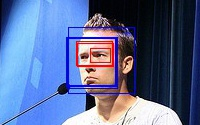
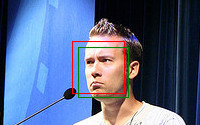
documentation

diff --git a/lib/detectors/opencv.rb b/lib/detectors/opencv.rb
@@ -7,11 +7,11 @@ class FaceCrop::Detector::OpenCV < FaceCrop::Detector::Base
     
     image = OpenCV::IplImage.load(file, 1)
 
-    faces_regions = detect_regions(image, @options[:classifiers][:face])
+    faces_regions = detect_regions(image, @options[:face])
   
     #Paperclip::FaceCrop.classifiers[:nose]
-    unless @options[:classifiers][:parts].nil?
-      faces_parts_regions = detect_regions(image, @options[:classifiers][:parts])
+    unless @options[:parts].nil?
+      faces_parts_regions = detect_regions(image, @options[:parts])
     
       faces_regions.reject! do |face_region|
         region = faces_parts_regions.detect do |part_region|

diff --git a/lib/detectors/face_com.rb b/lib/detectors/face_com.rb
@@ -4,7 +4,9 @@ class FaceCrop::Detector::FaceCom < FaceCrop::Detector::Base
   URL = "http://api.face.com/faces/detect.json"
   
   def detect_faces(file)
-    url = "#{URL}?api_key=#{@options[:api_key]}&api_secret=#{@options[:api_secret]}"
+    query = @options.to_query
+    url = "#{URL}?#{query}"
+    
     response = RestClient.post url, :file => File.new(file)
     response = JSON.parse(response)
     

diff --git a/README.md b/README.md
@@ -2,14 +2,29 @@ Paperclip::FaceCrop
 ====================
 `Paperclip::FaceCrop` is a [Paperclip][paperclip] processor that is aware of the faces found on the image 
 so that they aren't cropped or aren't shown too small while generating the thumbnails.
-It uses OpenCV for the facial recognition
+It can use the [OpenCV][opencv] library or the [Face.com][face_com] web service(or both at the same time) for the facial recognition.
 
 ![](https://github.com/dagi3d/paperclip-facecrop/raw/master/README_example.jpg)
 
 Requirements:
 -------------
+
+### OpenCV
+
+If you want to use OpenCV on your own server, you need to install:
+
 - [OpenCV][opencv]
 - [OpenCV ruby binding][ruby-opencv]
+
+In case you get the error message `/ext/opencv/cverror.cpp:143: error: ‘CV_GpuCufftCallError’ was not declared in this scope` while installing the ruby binding,
+checkout the OpenCV_2.2 branch or just remove the line 143 from `/ext/opencv/cverror.cpp`
+          
+
+### Face.com
+- [rest-client][rest-client]
+
+In order to use the Face.com service, you will also need to register in order to get your aapi key and api secret for your application.
+
 
 Installation:
 -------------
@@ -21,39 +36,55 @@ Installation:
           
           bundle install
 
-- Write an initializer setting the path of the haarcascade filters(`initializers/paperclip.rb` for example):   
 
-          Paperclip::FaceCrop.classifiers = {
-            :face => ["/usr/local/share/opencv/haarcascades/haarcascade_frontalface_alt.xml"]
+- Write an initializer setting the detectors configuration (`initializers/paperclip.rb` for example):   
+
+### OpenCV
+
+Set the path of the haarcascade filters:
+
+          Paperclip::FaceCrop.detectors = {
+            'OpenCV' =>  { 
+              :face => %w(/usr/local/share/opencv/haarcascades/haarcascade_frontalface_alt_tree.xml)
+            }
           }
+
+          
               
-    You can use more than one filter to try more accurate searches:
+You can use more than one filter to try more accurate searches:
     
-          Paperclip::FaceCrop.classifiers = {
-            :face => [
-              "/usr/local/share/opencv/haarcascades/haarcascade_frontalface_alt.xml",
-              "/usr/local/share/opencv/haarcascades/haarcascade_frontalface_alt_tree.xml",
-              "/usr/local/share/opencv/haarcascades/haarcascade_profileface.xml"
-            ]
+          Paperclip::FaceCrop.detectors = {
+            'OpenCV' =>  { 
+              :face => %w(/usr/local/share/opencv/haarcascades/haarcascade_frontalface_alt_tree.xml
+                          /usr/local/share/opencv/haarcascades/haarcascade_frontalface_alt.xml
+                          /usr/local/share/opencv/haarcascades/haarcascade_profileface.xml)
+            }
           }
 
-    In order to try to avoid some false positives, you can also specify other classifiers to detect other parts of the face. In that case, 
-    only the found areas that contain parts like a mouth, an eye or a nose will be considered a face:
+
+
+In order to try to avoid some false positives, you can also specify other classifiers to detect other parts of the face. In that case, 
+only the found areas that contain parts like a mouth, an eye or a nose will be considered a face:
     
-          Paperclip::FaceCrop.classifiers = {
-            :face => [
-              "/usr/local/share/opencv/haarcascades/haarcascade_frontalface_alt.xml",
-              "/usr/local/share/opencv/haarcascades/haarcascade_frontalface_alt_tree.xml",
-              "/usr/local/share/opencv/haarcascades/haarcascade_profileface.xml"
-            ],
-            :parts => [
-              "/usr/local/share/opencv/haarcascades/haarcascade_mcs_nose.xml",
-              "/usr/local/share/opencv/haarcascades/haarcascade_mcs_lefteye.xml",
-              "/usr/local/share/opencv/haarcascades/haarcascade_mcs_righteye.xml"
-            ]
+          Paperclip::FaceCrop.detectors = {
+            'OpenCV' =>  { 
+              :face => %w(/usr/local/share/opencv/haarcascades/haarcascade_frontalface_alt_tree.xml
+                          /usr/local/share/opencv/haarcascades/haarcascade_frontalface_alt.xml
+                          /usr/local/share/opencv/haarcascades/haarcascade_profileface.xml),
+              
+              :parts => %w(/usr/local/share/opencv/haarcascades/haarcascade_mcs_nose.xml
+                           /usr/local/share/opencv/haarcascades/haarcascade_mcs_lefteye.xml
+                           /usr/local/share/opencv/haarcascades/haarcascade_mcs_righteye.xml)
+            }
           }
+          
     
-    
+### Face.com
+
+          Paperclip::FaceCrop.detectors = {
+            'FaceCom' => { :api_key => "<YOUR API KEY>", :api_secret => "<YOUR API SECRET>"}
+          }    
+
 
 Usage:
 ------
@@ -71,15 +102,19 @@ In case no faces were found, it will behave simply as the `Paperclip::Thumbnail`
 
 You can also set the debug mode to draw on the image the detected regions:
     
-    Paperclip::FaceCrop.debug = (Rails.env == 'development')
+    Paperclip::FaceCrop.debug = Rails.env.development?
     
 ![](https://github.com/dagi3d/paperclip-facecrop/raw/master/README_example_b.jpg)
+
+Each detector will draw the found regions in different colors(Face.com detector in red and OpenCV in green)
 
 Credits:
 --------
 Copyright (c) 2011 Borja Martín Sánchez de Vivar <borjamREMOVETHIS@dagi3d.net> - <http://dagi3d.net>, released under the MIT license  
 The photo used as example belongs to [Jesper Rønn-Jensen](http://www.flickr.com/photos/jesper/)
 
+[face_com]: http://face.com
+[rest-client]: https://rubygems.org/gems/rest-client
 [paperclip]: https://github.com/thoughtbot/paperclip
 [opencv]: http://opencv.willowgarage.com/
 [ruby-opencv]: https://github.com/ser1zw/ruby-opencv
